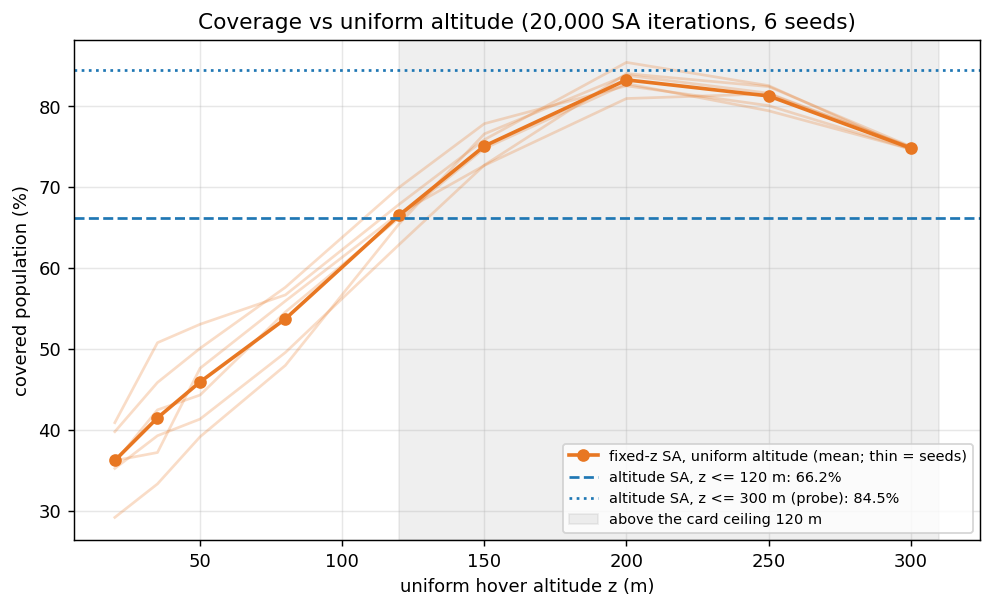
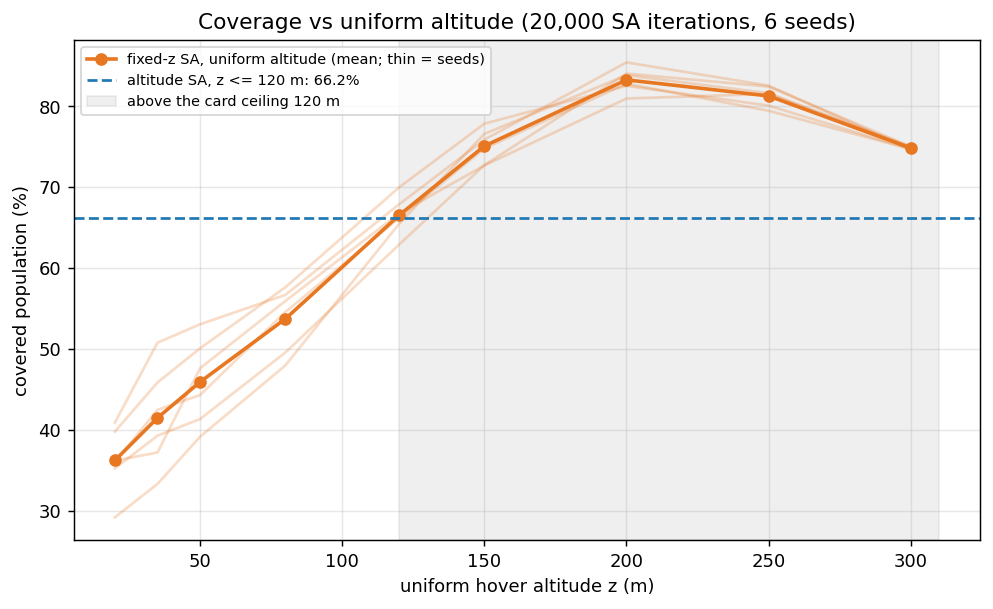
Fix S051 3D Post-Disaster Comm Network: address review follow-ups

Changed region(s): [[0.5619, 0.7176, 0.9678, 0.8736], [0.0624, 0.0624, 0.4995, 0.2184], [0.4683, 0.156, 0.4995, 0.1872]]

diff --git a/src/03_environmental_sar/3d/s051_3d_post_disaster_comm.py b/src/03_environmental_sar/3d/s051_3d_post_disaster_comm.py
@@ -516,6 +516,8 @@ def _run_seed(seed):
     xf, cf, hf, _ = simulated_annealing(w, SA_SEED_BASE + seed, N_SA_STEPS, free_z=False)
     xa, ca, ha, fr = simulated_annealing(w, SA_SEED_BASE + seed, N_SA_STEPS, free_z=True, n_frames=nf)
     out['fixed'], out['alt'] = evaluate(w, xf), evaluate(w, xa)
+    x120, _, _, _ = simulated_annealing(w, SA_SEED_BASE + seed, N_SA_STEPS, free_z=False, z_fix=Z_MAX)
+    out['fixed120'] = _slim(evaluate(w, x120))      # 2D strategy at the ceiling, same budget and seed
     # incremental SA coverage must equal direct ray marching (catches table / drift bugs)
     assert abs(out['fixed']['cov'] - cf) < 1e-9 and abs(out['alt']['cov'] - ca) < 1e-9
     out['conn_iter'] = {'fixed': connected_from(hf), 'alt': connected_from(ha)}
@@ -701,6 +703,14 @@ def report(res):
           f'{d_ff.min():+.2f} to {d_ff.max():+.2f} pp')
     fe = [o for o in P if o['daisy']['feasible']]
     d_da = _pct([o['alt']['cov'] - o['daisy']['cov'] for o in fe])
+    v120 = _pct([o['fixed120']['cov'] for o in P])
+    d120 = _pct([o['alt']['cov'] - o['fixed120']['cov'] for o in P])
+    print(f'  fixed-z SA at {Z_MAX:.0f} m ({N_SA_STEPS} it., main SA seeds): per seed '
+          + ', '.join(f'{v:.2f}' for v in v120) + f'; mean {v120.mean():.2f}%, feasible '
+          f'{sum(o["fixed120"]["feasible"] for o in P)}/{len(P)}')
+    print(f'  altitude SA - fixed-z SA at {Z_MAX:.0f} m ({N_SA_STEPS} it.): mean {d120.mean():+.2f} pp, range '
+          f'{d120.min():+.2f} to {d120.max():+.2f}; alt better in {int(np.sum(d120 > 0))}/{len(P)}, '
+          f'worse {int(np.sum(d120 < 0))}, tie {int(np.sum(d120 == 0))}')
     print(f'  altitude SA - daisy-chain (feasible seeds only, {len(fe)}): mean {d_da.mean():+.2f} pp, '
           f'range {d_da.min():+.2f} to {d_da.max():+.2f} pp; alt better in {int(np.sum(d_da > 0))}/{len(fe)}')
 
@@ -938,11 +948,14 @@ def plot_altitudes(res, out):
 
 def plot_coverage_bar(res, out):
     P = res['per_seed']
-    fig, ax = plt.subplots(figsize=(9, 5))
-    for i, s_ in enumerate(STRATS):
+    fig, ax = plt.subplots(figsize=(10.5, 5))
+    bars = ['flat', 'fixed', 'fixed120', 'alt', 'daisy']
+    labels = dict(LABELS, fixed120=f'Fixed-z SA at {Z_MAX:.0f} m (2D strategy at the ceiling)')
+    colors = dict(COLORS, fixed120='#8C564B')
+    for i, s_ in enumerate(bars):
         v = _pct([o[s_]['cov'] for o in P])
         feas = np.array([o[s_]['feasible'] for o in P])
-        ax.bar(i, v.mean(), color=COLORS[s_], edgecolor='k', alpha=0.8)
+        ax.bar(i, v.mean(), color=colors[s_], edgecolor='k', alpha=0.8)
         jit = np.linspace(-0.25, 0.25, len(v))
         ax.scatter(i + jit[feas], v[feas], color='k', s=18, zorder=3)
         ax.scatter(i + jit[~feas], v[~feas], color='red', marker='x', s=40, zorder=3)
@@ -950,10 +963,10 @@ def plot_coverage_bar(res, out):
                 bbox=dict(boxstyle='round', fc='white', alpha=0.85))
     ax.axhline(100 * res['sa2d_cov2d'], color='k', ls=':', lw=1,
                label=f'2D S051 SA in the 2D model: {100 * res["sa2d_cov2d"]:.1f}%')
-    ax.set_xticks(range(len(STRATS)), [LABELS[s_].replace(' (', '\n(') for s_ in STRATS], fontsize=9)
+    ax.set_xticks(range(len(bars)), [labels[s_].replace(' (', '\n(') for s_ in bars], fontsize=8)
     ax.set_ylabel('covered population (%)'); ax.set_ylim(0, 100)
-    ax.set_title(f'S051 3D coverage by strategy - bars = mean, dots = {len(P)} seeds '
-                 '(red x = not connected)')
+    ax.set_title(f'S051 3D coverage by strategy, {N_SA_STEPS:,} SA iterations - bars = mean, dots = {len(P)} maps '
+                 '(red x = not connected)', fontsize=10)
     ax.legend(fontsize=8, loc='upper left'); ax.grid(axis='y', alpha=0.3)
     p = os.path.join(out, 'coverage_bar.png')
     plt.savefig(p, dpi=130, bbox_inches='tight'); plt.close(fig)
@@ -971,9 +984,7 @@ def plot_altitude_sweep(res, out):
             for z in zs]
     ax.plot(zs, mean, 'o-', color=COLORS['fixed'], lw=2, label='fixed-z SA, uniform altitude (mean; thin = seeds)')
     va = np.mean(_pct([o['dsweep'][1.0]['alt']['cov'] for o in P]))
-    vh = np.mean(_pct([o['alt_high']['cov'] for o in P]))
     ax.axhline(va, color=COLORS['alt'], ls='--', label=f'altitude SA, z <= {Z_MAX:.0f} m: {va:.1f}%')
-    ax.axhline(vh, color=COLORS['alt'], ls=':', label=f'altitude SA, z <= {Z_MAX_PROBE:.0f} m (probe): {vh:.1f}%')
     ax.axvspan(Z_MAX, Z_MAX_PROBE + 10, color='gray', alpha=0.12, label=f'above the card ceiling {Z_MAX:.0f} m')
     ax.set_xlabel('uniform hover altitude z (m)'); ax.set_ylabel('covered population (%)')
     ax.set_title(f'Coverage vs uniform altitude ({SWEEP_STEPS:,} SA iterations, {len(P)} seeds)')

diff --git a/outputs/03_environmental_sar/3d/s051_3d_post_disaster_comm/README.md b/outputs/03_environmental_sar/3d/s051_3d_post_disaster_comm/README.md
@@ -80,7 +80,7 @@ conda activate drones
 python src/03_environmental_sar/3d/s051_3d_post_disaster_comm.py
 ```
 
-The maps run in a pool of up to 6 worker processes, and the results are collected in map order. Runtime ≈ 255 s standalone with 6 workers; up to about 490 s when three other multi-process simulations share the CPU. Runs with default threading and with `OMP_NUM_THREADS=1` printed byte-identical output and wrote byte-identical files.
+The maps run in a pool of up to 6 worker processes, and the results are collected in map order. Runtime ≈ 355 s run on its own with 6 workers (including the 80 000-iteration fixed-120 m runs); up to about 490 s when other multi-process simulations share the CPU. Runs with default threading and with `OMP_NUM_THREADS=1` printed byte-identical output and wrote byte-identical files.
 
 ---
 
@@ -90,15 +90,15 @@ The maps run in a pool of up to 6 worker processes, and the results are collecte
 
 Main runs: 80 000 iterations, SA seed 500 + map (decoupled from the debris seed), the same SA seed for every strategy on a map.
 
-| Seed | Flat 3D | Fixed-z SA 50 m | Altitude SA | Daisy-chain ($M^*$) | Altitude SA − fixed 50 m |
-|---|---:|---:|---:|---:|---:|
-| 0 | 41.39 | 53.95 | 69.39 | 70.21* (0) | +15.45 pp |
-| 1 | 37.92 | 47.66 | 66.84 | 63.75 (0) | +19.18 pp |
-| 2 | 31.05 | 42.68 | 65.67 | 63.25 (0) | +22.99 pp |
-| 3 | 39.01 | 50.89 | 69.99 | 68.68 (0) | +19.10 pp |
-| 4 | 39.95 | 45.92 | 66.20 | 62.28 (0) | +20.28 pp |
-| 5 | 29.42 | 39.51 | 64.44 | 63.82 (0) | +24.93 pp |
-| **Mean** | **36.45** | **46.77** | **67.09** | 65.33 (64.36 over the 5 connected seeds) | **+20.32 pp** |
+| Seed | Flat 3D | Fixed-z SA 50 m | Fixed-z SA 120 m | Altitude SA | Daisy-chain ($M^*$) | Altitude SA − fixed 50 m |
+|---|---:|---:|---:|---:|---:|---:|
+| 0 | 41.39 | 53.95 | 70.91 | 69.39 | 70.21* (0) | +15.45 pp |
+| 1 | 37.92 | 47.66 | 67.49 | 66.84 | 63.75 (0) | +19.18 pp |
+| 2 | 31.05 | 42.68 | 65.67 | 65.67 | 63.25 (0) | +22.99 pp |
+| 3 | 39.01 | 50.89 | 71.62 | 69.99 | 68.68 (0) | +19.10 pp |
+| 4 | 39.95 | 45.92 | 67.08 | 66.20 | 62.28 (0) | +20.28 pp |
+| 5 | 29.42 | 39.51 | 63.27 | 64.44 | 63.82 (0) | +24.93 pp |
+| **Mean** | **36.45** | **46.77** | **67.67** | **67.09** | 65.33 (64.36 over the 5 connected seeds) | **+20.32 pp** |
 
 ### Optimiser spread (4 independent SA seeds per map, 20 000 iterations)
 
@@ -118,12 +118,12 @@ Paired over the 24 runs: altitude SA − fixed 50 m = +19.95 pp (+11.54 to +25.9
 
 **Key findings**
 
-- **Flying higher is what pays, not per-drone altitude optimisation.** Against the 2D baseline at 50 m, altitude SA gains +20.32 pp (6/6 maps, +15.45 to +24.93) and +19.95 pp over the 24 replicate runs (24/24). But the SA puts every drone at or near the 120 m ceiling (29/30 drones within 5 m of it, mean 119.3 m, minimum 114.1 m), and the plain 2D strategy flown at a fixed 120 m gets the same gain or more: fixed 120 m − fixed 50 m = +21.11 pp (24/24), and altitude SA − fixed 120 m = −1.16 pp (worse in 17/24). Adding $z$ to the SA state makes the optimiser noisier (within-map SD 1.66 pp vs 0.64 pp) and slightly worse. A single 120 m main-run comparison (altitude SA at 20 000 iterations − uniform 120 m: −0.29 pp, better in 1/6) agrees.
+- **Flying higher is what pays, not per-drone altitude optimisation.** Against the 2D baseline at 50 m, altitude SA gains +20.32 pp (6/6 maps, +15.45 to +24.93) and +19.95 pp over the 24 replicate runs (24/24). But the SA puts every drone at or near the 120 m ceiling (29/30 drones within 5 m of it, mean 119.3 m, minimum 114.1 m), and the plain 2D strategy flown at a fixed 120 m gets the same gain or more: fixed 120 m − fixed 50 m = +21.11 pp (24/24), and altitude SA − fixed 120 m = −1.16 pp (worse in 17/24). Adding $z$ to the SA state makes the optimiser noisier (within-map SD 1.66 pp vs 0.64 pp) and slightly worse. The same holds at the main 80 000-iteration budget on the main SA seeds: fixed 120 m reaches 67.67 % against 67.09 % for altitude SA, so altitude SA − fixed 120 m = −0.59 pp (−1.64 to +1.17; better in 1/6, worse in 4/6, 1 tie). The 20 000-iteration sweep runs on the main SA seeds agree (altitude SA − uniform 120 m: −0.29 pp, better in 1/6).
 - **The 2D solution itself does not transfer**: it covers 62.97 % in its own 2D model but only 36.45 % once debris shadow is applied; re-optimising at 50 m with the debris in view gives +10.31 pp on average (+5.98 to +12.56).
 - **The mechanism is debris shadow, and it is measured directly.** Averaged over seeds, 82.36 % of the population lies within slant range of the fixed-50 m layout, but 35.59 % of it is debris-shadowed. For the altitude SA the in-range share is 86.76 %, of which only 19.67 % is shadowed (flat 3D: 48.61 % shadowed). In the LOS map (`los_shadow_map.png`, seed 0) on average 0.38 of the 5 drones see a cell at 50 m, against 0.60 for the altitude-SA layout.
 - **Ablation (debris height scale)**: with no debris (scale 0) altitude SA and fixed 50 m tie (93.84 % vs 93.99 %, mean −0.15 pp), and the SA leaves the drones at a mean 51.0 m (40.5–60.1 m), since the footprint radius barely changes between 20 m and 50 m (449.6 m vs 447.2 m). With half-height debris the gain over 50 m is +5.73 pp at a mean altitude of 92.2 m (70.2–111.0 m, i.e. below the ceiling), with full debris +20.30 pp at 117.0 m, and with 1.5 × debris +14.94 pp at 117.1 m (6/6 seeds at every scale above 0). The altitude rises because of the debris, not because of the bound.
 - **Uniform-altitude sweep**: coverage rises steadily up to the ceiling: 36.25 % at 20 m, 45.95 % at 50 m, 66.54 % at 120 m. The card's expectation that the optimiser "lifts high-load relay drones higher" does not appear.
-- **Probe with the ceiling lifted to 300 m** (beyond the card bounds, for insight only): uniform-altitude coverage peaks at 200 m (83.27 %) and falls to 74.85 % at 300 m, where the footprint has shrunk to 335.4 m. Altitude SA with $z \le 300$ m reaches 84.46 % in the main runs, but over the 24 replicate runs it is level with a fixed 200 m (−0.08 pp, 12/24 better, 12/24 worse). The spread of the five altitudes within a layout (27.6–151.1 m) therefore buys nothing measurable; there is no evidence of a per-drone altitude advantage above the ceiling either.
+- **Probe with the ceiling lifted to 300 m** (beyond the card bounds, for insight only): uniform-altitude coverage peaks at 200 m (83.27 %) and falls to 74.85 % at 300 m, where the footprint has shrunk to 335.4 m. Altitude SA with $z \le 300$ m reaches 84.46 % in the 20 000-iteration sweep runs on the main SA seeds, but over the 24 replicate runs it is level with a fixed 200 m (−0.08 pp, 12/24 better, 12/24 worse). The spread of the five altitudes within a layout (27.6–151.1 m) therefore buys nothing measurable; there is no evidence of a per-drone altitude advantage above the ceiling either.
 - **Sensitivity to the added debris generator**: with a correlation length of 0.5 cells the gain over 50 m is +32.40 pp, and with 3 cells +15.61 pp (6/6 seeds each).
 - **The vertical daisy-chain never helps.** $M^* = 0$ in every seed: coverage falls with each added relay-only drone (seed 0: 70.21, 62.69, 53.07, 40.27 and 27.08 % for $M$ = 0–4), and no relay link needs a vertical bridge. In the final flat, fixed-z and altitude-SA layouts, no link within 900 m is debris-blocked (0 in all seeds; the uniform-20 m SA layouts have 5). For random drone pairs, links are blocked only at 20 m (1137/7352 pairs, 15.47 %), never at 50 m (0/8659). The card's premise that debris breaks drone-to-drone LOS holds only for drones flying below about 50 m. With $M = 0$ the heuristic is a 3D greedy placement, which always picks the 120 m level; altitude SA beats it by +2.27 pp over the 5 connected seeds (+0.62 to +3.92, 5/5), and in seed 0 the greedy layout is disconnected (70.21 %*).
 - **Constraints**: energy never binds inside the bounds. The maximum transit distance is 2241 m at 20 m and 2196 m at 120 m, against at most 2150 m to the farthest corner. Hover power barely changes over the altitude range (80.064 W at 20 m, 80.384 W at 120 m). Both SA variants are connected and energy-feasible by iteration 158 at the latest.
@@ -146,11 +146,11 @@ Paired over the 24 runs: altitude SA − fixed 50 m = +19.95 pp (+11.54 to +25.9
 
 ![Altitudes](./altitude_bars.png)
 
-**Coverage by strategy**: bars = mean over all 6 seeds, dots = seeds, red × = not connected. Dotted line = the 2D S051 SA in its own 2D model:
+**Coverage by strategy** (main runs, 80 000 iterations): bars = mean over all 6 maps, dots = maps, red × = not connected. The fixed-z SA at 120 m (the 2D strategy at the ceiling) has a slightly higher mean than altitude SA (67.67 vs 67.09 %). Dotted line = the 2D S051 SA in its own 2D model:
 
 ![Coverage bar](./coverage_bar.png)
 
-**Coverage vs uniform altitude** (fixed-z SA, thin lines = seeds), with the two altitude-SA results. The grey band is above the card ceiling:
+**Coverage vs uniform altitude** (fixed-z SA, 20 000 iterations, thin lines = maps), with the altitude-SA result for $z \le 120$ m. The lifted-ceiling altitude SA is not drawn: over the 24 replicate runs it is level with a fixed 200 m. The grey band is above the card ceiling:
 
 ![Altitude sweep](./altitude_sweep.png)
 
